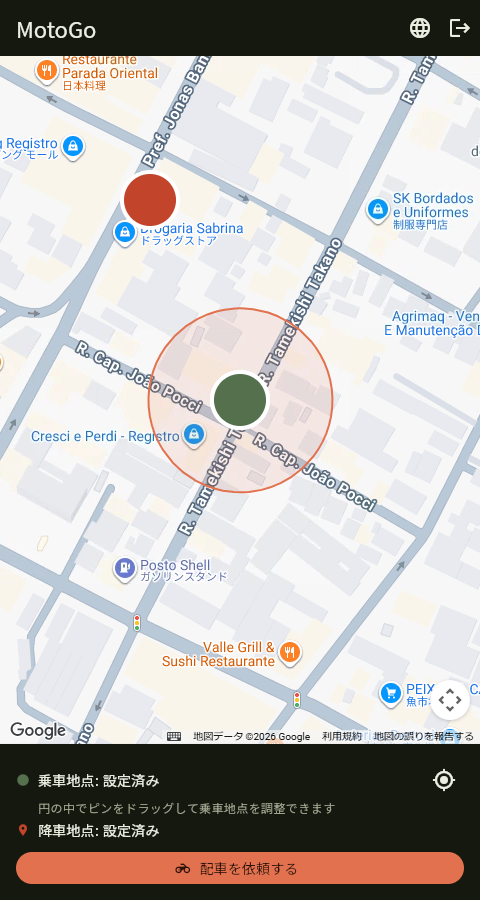
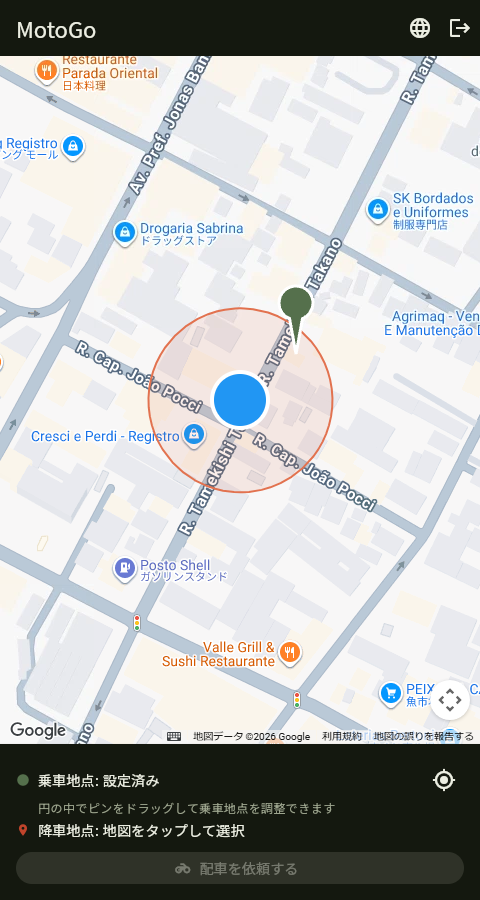
Draw pickup/dropoff markers as actual map pins, not plain circles
User feedback: the large filled circles used for pickup/dropoff were
hard to tell apart from each other and from the map itself.

- Split the single _createPinBitmap (which, despite its name, only ever
  drew a circle) into two functions: _createDotBitmap (the original
  circle drawing, kept for the device-location marker — a plain dot is
  the correct shape there, matching every native maps app's "you are
  here" convention) and a new _createPinBitmap that actually draws a
  teardrop map-pin silhouette (round head + tapered tail meeting at a
  point), via Path.combine(PathOperation.union, ...) of a circle and a
  triangle so the outline stays seamless without hand-rolled bezier math.
- Added pinTipAnchorFraction (computed from the same pin-geometry
  constants the drawing function uses, so it can't drift out of sync)
  and wired it as the Marker anchor for pickup/dropoff, replacing the
  center-anchored circleAnchor used for all three markers before — a
  pin's marked point is its tip, not its bounding-box center. The
  device-location dot keeps the old center anchor (renamed dotAnchor).

Verified visually (light + dark, via the run-msmototaxi skill's
Playwright driver): dropoff renders as a clean pointed pin immediately;
dragging pickup away from the device-location dot confirms its pin tip
— not some other part of the bitmap — lands exactly on the dragged
coordinate. flutter analyze/test clean.

Claude-Session: https://claude.ai/code/session_01RVSfb1nS5Eku3tLp1snDHD

diff --git a/lib/features/passenger/home/passenger_home_screen.dart b/lib/features/passenger/home/passenger_home_screen.dart
@@ -62,25 +62,30 @@ LatLng _destinationPoint(
   return LatLng(lat2 * 180 / math.pi, lon2 * 180 / math.pi);
 }
 
-/// Renders a simple filled-circle pin bitmap in [color], for use as a
-/// [Marker.icon].
-/// [color] で塗りつぶした単純な円形ピンの画像を生成し、[Marker.icon] として
-/// 使えるようにする。
-///
-/// `BitmapDescriptor.defaultMarkerWithHue` is used instead on Android/iOS,
-/// but Flutter Web's Google Maps implementation has a long-standing,
-/// unresolved bug where it ignores the hue and always renders the standard
-/// red pin (flutter/flutter#87917, #161948) — with only that, the pickup
-/// (meant to be green) and dropoff (red) markers were indistinguishable on
-/// web. Drawing our own bitmap sidesteps the bug entirely and looks the
-/// same on every platform.
-/// Android/iOSでは代わりに`BitmapDescriptor.defaultMarkerWithHue`を使うが、
-/// Flutter WebのGoogle Maps実装にはhueを無視して常に標準の赤いピンを描画する
-/// という長年未解決のバグがある（flutter/flutter#87917、#161948）—
-/// これだけだと、乗車地点（本来は緑）と降車地点（赤）のマーカーがWeb上で
-/// 区別できなくなってしまう。自前でビットマップを描画することでこのバグを
-/// 完全に回避でき、かつどのプラットフォームでも同じ見た目になる。
-Future<BitmapDescriptor> _createPinBitmap(Color color) async {
+// Shared reasoning for why both drawing functions below exist instead of
+// BitmapDescriptor.defaultMarkerWithHue: Flutter Web's Google Maps
+// implementation has a long-standing, unresolved bug where it ignores the
+// hue and always renders the standard red pin (flutter/flutter#87917,
+// #161948) — with only that, the pickup (meant to be green) and dropoff
+// (red) markers were indistinguishable on web. Drawing our own bitmaps
+// sidesteps the bug entirely and looks the same on every platform.
+// 下の2つの描画関数が、`BitmapDescriptor.defaultMarkerWithHue`の代わりに
+// 存在する共通の理由: Flutter WebのGoogle Maps実装にはhueを無視して常に
+// 標準の赤いピンを描画するという長年未解決のバグがある
+// （flutter/flutter#87917、#161948）— これだけだと、乗車地点（本来は緑）と
+// 降車地点（赤）のマーカーがWeb上で区別できなくなってしまう。自前で
+// ビットマップを描画することでこのバグを完全に回避でき、かつどの
+// プラットフォームでも同じ見た目になる。
+
+/// Renders a filled circle in [color], for the device-location marker — a
+/// plain dot, matching the "you are here" convention from native maps
+/// apps (see the `device_location` marker's own doc comment), as opposed
+/// to the teardrop pin shape [_createPinBitmap] draws for pickup/dropoff.
+/// [color] で塗りつぶした単純な円を描画する。現在地マーカー用 —
+/// ネイティブ地図アプリ共通の「現在地」慣習（`device_location`マーカー
+/// 自体のdocコメント参照）に合わせた単純なドット。乗車/降車地点用に
+/// [_createPinBitmap] が描く涙形ピンとは対照的な形。
+Future<BitmapDescriptor> _createDotBitmap(Color color) async {
   const size = 64.0;
   final recorder = ui.PictureRecorder();
   final canvas = Canvas(recorder, const Rect.fromLTWH(0, 0, size, size));
@@ -100,6 +105,72 @@ Future<BitmapDescriptor> _createPinBitmap(Color color) async {
   final image = await recorder.endRecording().toImage(
     size.toInt(),
     size.toInt(),
+  );
+  final bytes = await image.toByteData(format: ui.ImageByteFormat.png);
+  return BitmapDescriptor.bytes(bytes!.buffer.asUint8List());
+}
+
+const _pinWidth = 56.0;
+const _pinHeight = 76.0;
+const _pinHeadRadius = 17.0;
+const _pinPad = 4.0;
+
+/// Fraction down [_pinHeight] where the pin's tip sits — the exact point
+/// that marks the geographic coordinate. Passed as the [Marker.anchor] for
+/// pickup/dropoff so the tip, not the bitmap's center, lands on the
+/// coordinate (see `_PassengerHomeScreenState.build`'s anchor comment for
+/// why this matters — a plain circle bitmap needed anchor (0.5, 0.5)
+/// instead; a pin shape's marked point is its tip, so it needs (0.5, 1.0)
+/// in this coordinate system's proportions).
+/// [_pinHeight]のうち、ピンの先端がある位置の割合。地理座標を実際に指す点。
+/// 乗車/降車地点の[Marker.anchor]としてこれを渡し、画像の中心ではなく先端が
+/// 座標に来るようにする（なぜこれが重要かは
+/// `_PassengerHomeScreenState.build`のアンカー関連コメント参照 — 単純な円の
+/// 画像は代わりにアンカー(0.5, 0.5)が必要だった。ピン形状が指す点は先端
+/// なので、この座標系の比率では(0.5, 1.0)が必要）。
+const pinTipAnchorFraction = (_pinHeight - _pinPad) / _pinHeight;
+
+/// Renders a classic teardrop map-pin silhouette (a round head over a
+/// tapered tail meeting at a point) filled with [color], for the
+/// pickup/dropoff markers. See [pinTipAnchorFraction] for how callers must
+/// anchor it, and the comment block above [_createDotBitmap] for why this
+/// is hand-drawn instead of using a built-in pin.
+/// 涙形の地図ピン（丸い頭部と、一点に収束する先細りの尾）を[color]で
+/// 塗りつぶして描画する。乗車/降車地点マーカー用。呼び出し側でどう
+/// アンカーする必要があるかは[pinTipAnchorFraction]参照。なぜ組み込みの
+/// ピンを使わず自前で描画するかは[_createDotBitmap]直前のコメント参照。
+Future<BitmapDescriptor> _createPinBitmap(Color color) async {
+  final recorder = ui.PictureRecorder();
+  final canvas = Canvas(
+    recorder,
+    const Rect.fromLTWH(0, 0, _pinWidth, _pinHeight),
+  );
+  const cx = _pinWidth / 2;
+  const cy = _pinPad + _pinHeadRadius;
+  const tipY = _pinHeight - _pinPad;
+  const tailHalfWidth = _pinHeadRadius * 0.55;
+
+  final head = Path()
+    ..addOval(Rect.fromCircle(center: const Offset(cx, cy), radius: _pinHeadRadius));
+  final tail = Path()
+    ..moveTo(cx - tailHalfWidth, cy)
+    ..lineTo(cx + tailHalfWidth, cy)
+    ..lineTo(cx, tipY)
+    ..close();
+  final pin = Path.combine(PathOperation.union, head, tail);
+
+  canvas.drawPath(pin, Paint()..color = color);
+  canvas.drawPath(
+    pin,
+    Paint()
+      ..color = Colors.white
+      ..style = PaintingStyle.stroke
+      ..strokeWidth = 3,
+  );
+
+  final image = await recorder.endRecording().toImage(
+    _pinWidth.toInt(),
+    _pinHeight.toInt(),
   );
   final bytes = await image.toByteData(format: ui.ImageByteFormat.png);
   return BitmapDescriptor.bytes(bytes!.buffer.asUint8List());
@@ -199,7 +270,7 @@ class _PassengerHomeScreenState extends ConsumerState<PassengerHomeScreen> {
       // 視認性が下がるだけのため。
       _createPinBitmap(teaAccent),
       _createPinBitmap(toriiAccent),
-      _createPinBitmap(Colors.blue),
+      _createDotBitmap(Colors.blue),
     ]);
     if (!mounted) return;
     setState(() {
@@ -348,20 +419,24 @@ class _PassengerHomeScreenState extends ConsumerState<PassengerHomeScreen> {
     );
   }
 
-
   @override
   Widget build(BuildContext context) {
     final l10n = AppLocalizations.of(context)!;
-    // Our custom marker bitmaps are plain circles (no pointed pin tip), so
-    // anchor them at their exact center (0.5, 0.5) rather than the default
-    // (0.5, 1.0) — the default assumes a teardrop pin whose bottom tip
-    // marks the location, which would place a circle floating half its
-    // own height above the actual coordinate.
-    // 自前のマーカー画像は（先端の無い）単純な円のため、デフォルトの
-    // アンカー(0.5, 1.0)ではなく、中心(0.5, 0.5)を基準にする —
-    // デフォルトは先端が地点を指す涙形ピンを想定しており、そのままだと
-    // 円が実際の座標より自分の高さの半分だけ浮いた位置に表示されてしまう。
-    const circleAnchor = Offset(0.5, 0.5);
+    // The device-location bitmap is a plain circle (no pointed tip), so it
+    // anchors at its exact center (0.5, 0.5) — the Marker default (0.5,
+    // 1.0) assumes a teardrop pin whose bottom tip marks the location,
+    // which would place a centerless circle floating half its own height
+    // above the actual coordinate. The pickup/dropoff bitmaps ARE teardrop
+    // pins now (see _createPinBitmap), so they use their own tip-relative
+    // anchor instead — see pinTipAnchorFraction's doc comment.
+    // 現在地の画像は（先端の無い）単純な円のため、その中心(0.5, 0.5)を
+    // 基準にする — Markerのデフォルト(0.5, 1.0)は先端が地点を指す涙形ピンを
+    // 想定しており、そのままだと中心の無い円が実際の座標より自分の高さの
+    // 半分だけ浮いた位置に表示されてしまう。乗車/降車地点の画像は今は
+    // 涙形ピンそのもの（_createPinBitmap参照）なので、代わりに先端基準の
+    // 専用アンカーを使う — pinTipAnchorFractionのdocコメント参照。
+    const dotAnchor = Offset(0.5, 0.5);
+    const pinAnchor = Offset(0.5, pinTipAnchorFraction);
 
     final markers = <Marker>{
       // The device's own live position — see _deviceLocationIcon's field
@@ -375,7 +450,7 @@ class _PassengerHomeScreenState extends ConsumerState<PassengerHomeScreen> {
           markerId: const MarkerId('device_location'),
           position: _deviceLocation!,
           icon: _deviceLocationIcon ?? BitmapDescriptor.defaultMarker,
-          anchor: circleAnchor,
+          anchor: dotAnchor,
           zIndexInt: 0,
         ),
       if (_pickupLocation != null)
@@ -393,7 +468,7 @@ class _PassengerHomeScreenState extends ConsumerState<PassengerHomeScreen> {
           // 非同期描画が完了するまでのごく短い間は、通常のデフォルト
           // マーカーにフォールバックする。
           icon: _pickupIcon ?? BitmapDescriptor.defaultMarker,
-          anchor: circleAnchor,
+          anchor: pinAnchor,
           zIndexInt: 1,
           infoWindow: InfoWindow(title: l10n.passengerPickupMarkerTitle),
         ),
@@ -402,7 +477,7 @@ class _PassengerHomeScreenState extends ConsumerState<PassengerHomeScreen> {
           markerId: const MarkerId('dropoff'),
           position: _dropoffLocation!,
           icon: _dropoffIcon ?? BitmapDescriptor.defaultMarker,
-          anchor: circleAnchor,
+          anchor: pinAnchor,
           zIndexInt: 1,
           infoWindow: InfoWindow(title: l10n.passengerDropoffMarkerTitle),
         ),
